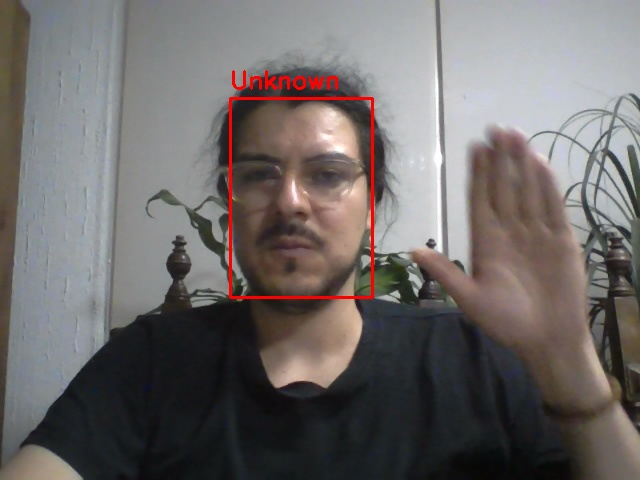
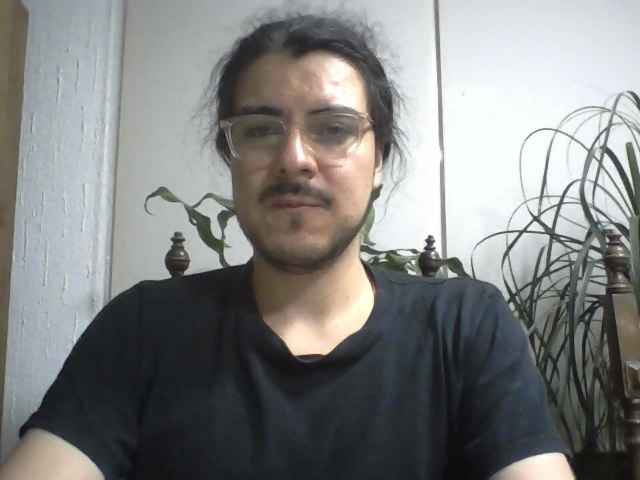
Bug solved | Now the system is taking a new frame of the user and is giving a space of 5 seconds

diff --git a/app/new_user_registration.py b/app/new_user_registration.py
@@ -11,17 +11,30 @@ def speak_in_background(message: str):
     thread = threading.Thread(target=speak_text, args=(message,))
     thread.start()
 
-def save_new_face_image(full_frame, name):
+def save_new_face_image(_, name):
     speak_in_background("Could you stay still for a moment? I will take a picture of you.")
-    
+
     print("Stage 3: Waiting before taking picture...")
-    time.sleep(3)  # ✅ Pause for 3 seconds
+    time.sleep(5)  # Wait for the user to stay still
 
-    print("Stage 3: Preparing to save image...")
+    print("Stage 3: Capturing new frame...")
+    cap = cv2.VideoCapture(0)
+    if not cap.isOpened():
+        print("❌ Error: Cannot access webcam to take picture.")
+        return
+
+    ret, fresh_frame = cap.read()
+    cap.release()
+
+    if not ret:
+        print("❌ Failed to capture image.")
+        return
+
+    fresh_frame = cv2.flip(fresh_frame, 1)  # Flip to match live view
     filename = os.path.join("known_faces", f"{name.lower()}.jpg")
-    cv2.imwrite(filename, full_frame)
+    cv2.imwrite(filename, fresh_frame)
 
-    print(f"Stage 3: Image saved as {filename}")
+    print(f"✅ Image saved as {filename}")
 
 
 def handle_new_user_registration(frame):
